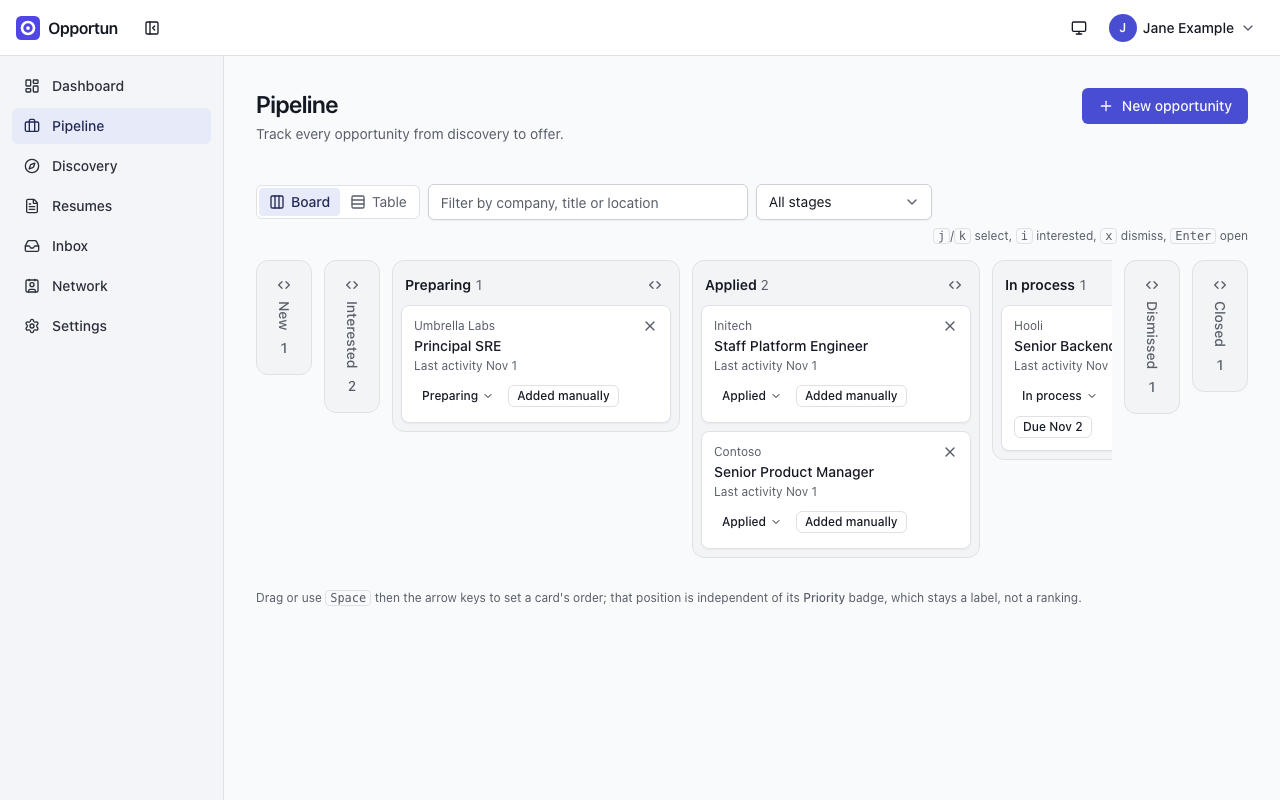
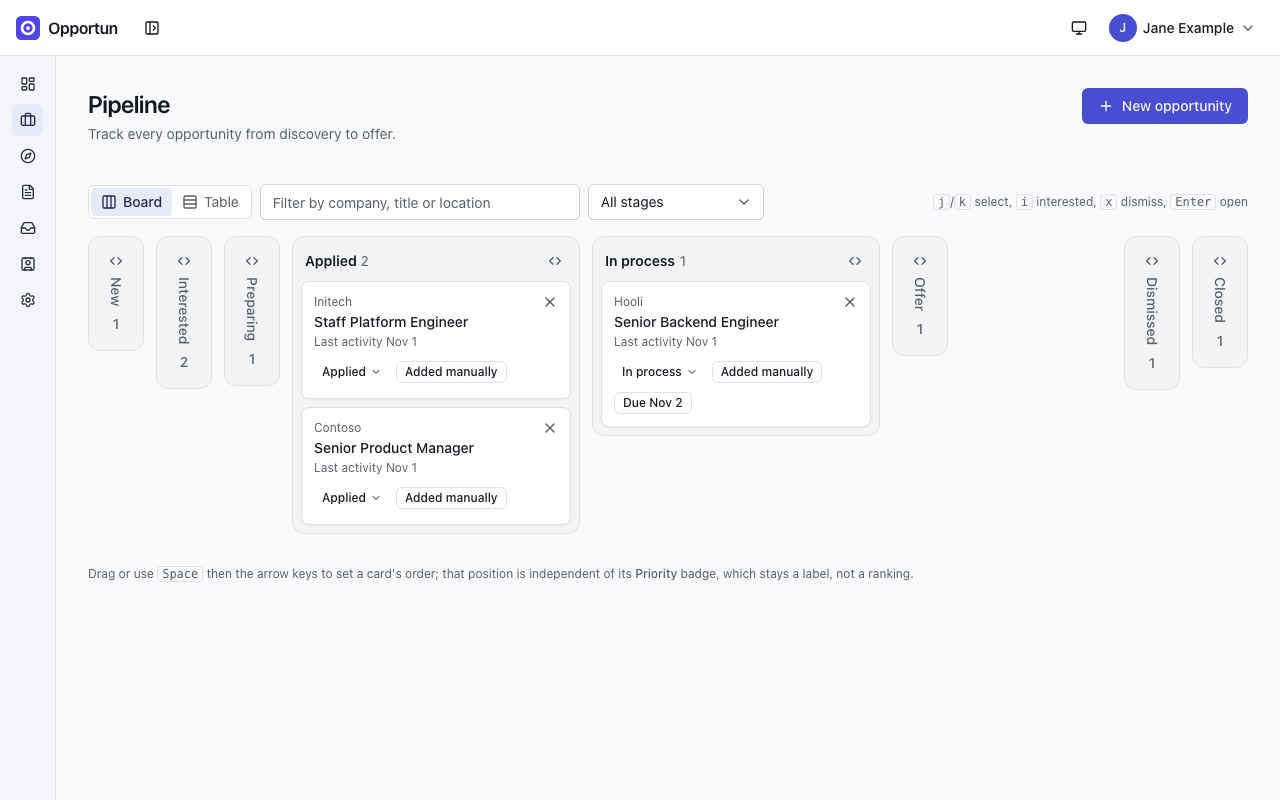
docs(guide): whole kanban columns, matching alt text, a fake LinkedIn id (#85)
Review points on https://github.com/bgoleno/opportun/pull/99:
- tl (1): pipeline-kanban.png is retaken with the sidebar collapsed and only
  Applied and In process expanded, so every column is whole; the alt text and
  caption name what is collapsed. Three expanded columns do not fit at 1280px.
- tl (2): the review-queue alt text says two of the three postings are shown.
- tl (optional): the import-export caption says what the image shows.
- sec (optional): discovery-capture-linkedin.png uses the job id 1000000001.

Refs #85

diff --git a/docs/guide/pipeline.md b/docs/guide/pipeline.md
@@ -39,9 +39,9 @@ stage. **Table** switches to a sortable table of the same opportunities.
 - A card Opportun thinks is a duplicate of one you already track carries a **Possible
   duplicate** badge. Open either card to resolve it.
 
-![The pipeline board with New and Interested collapsed, and Preparing, Applied and In process expanded](images/pipeline-kanban.png)
+![The pipeline board with the sidebar collapsed: Applied and In process expanded, and New, Interested, Preparing, Offer, Dismissed and Closed collapsed to strips](images/pipeline-kanban.png)
 
-_The board with two columns collapsed to strips. Each card's stage button opens the move menu._
+_The board with every column but Applied and In process collapsed to a strip. Each card's stage button opens the move menu._
 
 ## Create an opportunity
 

diff --git a/docs/guide/discovery.md b/docs/guide/discovery.md
@@ -79,7 +79,7 @@ reason, the start of the description, the pay if listed, and a link to the posti
   Stale, Other) and an optional note.
 - Keyboard: `j`/`k` select, `i` accepts, `x` dismisses, `Enter` opens.
 
-![The review queue with three ranked Vandelay Industries postings, the top one selected with a score of 92](images/discovery-review-queue.png)
+![The review queue with three Vandelay Industries postings to review: the top two shown, scored 92 and 70, the first one selected](images/discovery-review-queue.png)
 
 _The review queue, ranked against the "Staff platform" role target. The selected result has a blue outline._
 

diff --git a/docs/guide/settings.md b/docs/guide/settings.md
@@ -164,7 +164,7 @@ The Extensions and Connectors card is pictured in [Inbox](inbox.md#connect-gmail
 
 ![The Import/Export page after a LinkedIn export import finished with 9 of 9 rows](images/settings-import-export.png)
 
-_The import cards. The LinkedIn import reports how many rows were created, updated or unchanged._
+_The LinkedIn export import once it finished: how many rows were created, updated or unchanged._
 
 Back up the data directory (or at least the backups and attachments) somewhere other than the
 server itself; a snapshot on the same disk does not survive losing that disk.
